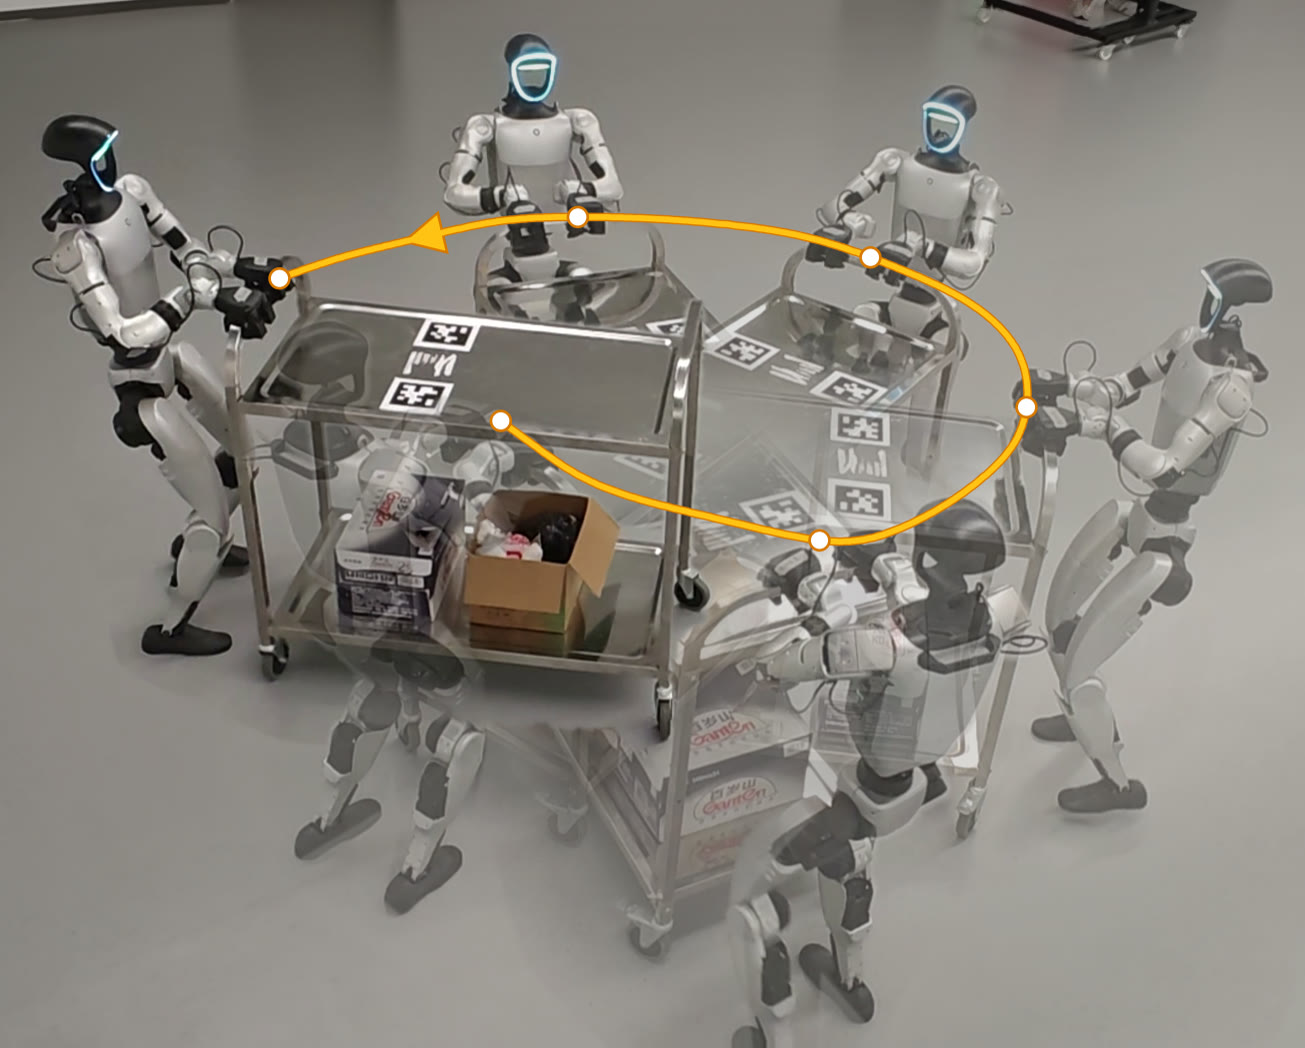
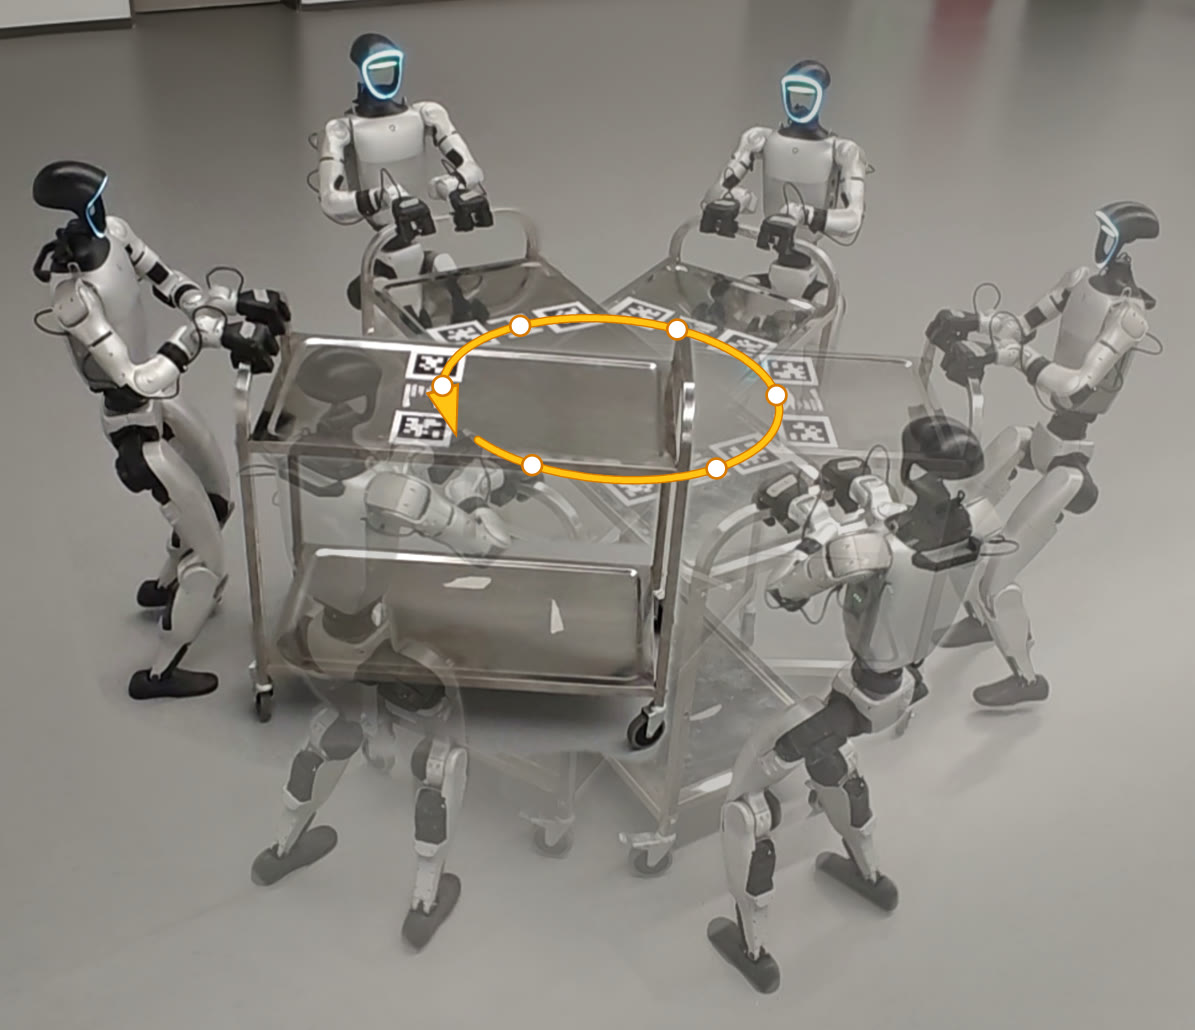
Add framework figure under abstract and fix turning timelapse
Place the paper's Figure 3 below the abstract with an (a)/(b)/(c)
caption, replacing the old Method section, and align the draft abstract
with the figure. Use the 0 kg circle-fit timelapse for the turning tab.

diff --git a/index.html b/index.html
@@ -145,23 +145,42 @@
         <div class="column is-four-fifths">
           <h2 class="title is-3">Abstract</h2>
           <div class="content has-text-justified">
-            <!-- TODO: 这段是根据 docs/paper_method_stage2_teacher_student.md 写的草稿，请换成论文正式摘要 -->
+            <!-- TODO: 这段是按框架图（Figure 3）写的草稿，请换成论文正式摘要 -->
             <p>
               When a humanoid robot pushes a cart, everything it does to the cart passes through its hands.
-              Whether the cart moves, whether the hands slip on the handle, and how well a velocity command is tracked
-              all depend on the interaction force, which in turn depends on grip friction, cart mass, rolling resistance
-              and external disturbances&mdash;none of which can be measured on the real robot.
-              We present ForPC, a hierarchical controller in which a high-level push-cart policy drives a frozen
-              locomotion policy by correcting its velocity commands, offsetting upper-body joint targets and adding
-              bounded leg residuals. We model the hand&ndash;handle contact with load-dependent elasto-plastic friction,
-              derive force-aware rewards from this contact model, and train the policy with a teacher&ndash;student scheme
-              whose latent context is restricted to what can be recovered from deployable history.
+              Whether the cart moves and how well a velocity command is tracked depend on the hand&ndash;cart
+              interaction force, which in turn depends on cart mass, friction and external disturbances&mdash;none
+              of which can be measured on the real robot.
+              We present ForPC, a force-aware whole-body residual controller. A pre-trained locomotion policy is kept
+              frozen, and a learned policy outputs arm actions, velocity commands and leg residuals on top of it.
+              Through teacher&ndash;student training, the student learns to estimate the interaction force and infer
+              the robot&ndash;cart state from its observation history alone, guided by a teacher that sees ground-truth
+              contact forces and privileged state.
               Deployed on a Unitree G1 without force sensors, the policy tracks forward, lateral and turning commands
               with payloads of up to 25&nbsp;kg and completes long-horizon delivery tasks.
             </p>
           </div>
         </div>
       </div>
+    </div>
+
+    <!-- 框架图（论文 Figure 3，来自 fig03_framework.pdf）。点击图片打开原图 -->
+    <div class="container is-max-widescreen framework" id="method">
+      <figure class="paper-figure framework-figure">
+        <a href="static/images/framework.png" target="_blank" title="Open full-size figure">
+          <img src="static/images/framework.png" alt="ForPC framework: locomotion prior pre-training, force estimation and force-aware state inference, and force-aware whole-body residual control">
+        </a>
+        <figcaption>
+          <strong>Framework.</strong>
+          (a) A locomotion prior is pre-trained from bounded initial poses under external wrench disturbances.
+          (b) The student encodes its observation history into state and force latents, decoded into velocity,
+          acceleration and force estimates, and is aligned by KL divergence with a teacher that encodes ground-truth
+          contact forces and privileged state; both feed a shared task policy.
+          (c) The student policy outputs arm actions, velocity commands and leg residuals for the frozen locomotion
+          policy, trained with velocity-tracking, cart-smoothness and internal-force rewards under dynamics
+          randomization and observation noise.
+        </figcaption>
+      </figure>
     </div>
   </section>
 
@@ -370,8 +389,8 @@
         <div class="columns is-vcentered timelapse-pair">
           <div class="column is-5">
             <figure class="paper-figure timelapse">
-              <img src="static/images/timelapse_wz.jpg" alt="High-angle timelapse of turning with a 25 kg payload" loading="lazy">
-              <figcaption>Turning with a 25 kg payload; the arrow traces the handle.</figcaption>
+              <img src="static/images/timelapse_wz.jpg" alt="High-angle timelapse of turning with an empty cart" loading="lazy">
+              <figcaption>Turning with an empty cart; the orange loop traces the cart path.</figcaption>
             </figure>
           </div>
           <div class="column is-7">
@@ -486,49 +505,6 @@
             <source src="static/videos/delivery_short.mp4" type="video/mp4">
           </video>
           <p class="experiment-caption">Short route <span class="speed-tag">3&times; speed</span></p>
-        </div>
-      </div>
-    </div>
-  </section>
-
-  <!-- ========== 方法 ========== -->
-  <!-- TODO: 系统框架图（论文图 3-1）画好后，可以命名为 method_overview.jpg 替换左边的渲染图 -->
-  <section class="section hero is-light" id="method">
-    <div class="container is-max-desktop">
-      <h2 class="title is-3 has-text-centered">Method</h2>
-      <div class="columns is-vcentered">
-        <div class="column is-4">
-          <figure class="paper-figure render-figure">
-            <img src="static/images/render_side34.jpg" alt="Unitree G1 holding the cart handle in simulation" loading="lazy">
-          </figure>
-        </div>
-        <div class="column is-8">
-          <div class="content method-text">
-            <p>
-              ForPC is a two-level controller. A frozen HOMIE locomotion policy walks the robot, and a high-level
-              push-cart policy running at 50&nbsp;Hz corrects its velocity commands, offsets the 15 upper-body joint
-              targets, and adds bounded residuals to the 12 leg joints.
-            </p>
-            <ul>
-              <li>
-                <strong>Hand&ndash;cart interaction model.</strong>
-                Each hand holds the handle through a four-joint chain with load-dependent elasto-plastic friction along
-                the tube, so grip slip and interaction forces are physically meaningful in simulation. Cart mass,
-                rolling resistance, caster friction, yaw damping and impacts are randomized.
-              </li>
-              <li>
-                <strong>Force-aware action and reward.</strong>
-                With both hands on the handle, upper-body joint offsets act as impedance-style regulators of the
-                interaction force, and the reward terms are derived from the contact mechanics.
-              </li>
-              <li>
-                <strong>Teacher&ndash;student training.</strong>
-                A teacher reads privileged mechanics through a 20-D latent bottleneck, regularized so that it keeps only
-                what a student can recover from deployable history. The deployed student needs no force sensors and
-                no privileged information.
-              </li>
-            </ul>
-          </div>
         </div>
       </div>
     </div>

diff --git a/static/css/index.css b/static/css/index.css
@@ -1008,3 +1008,34 @@ a:focus {
     gap: 0.6rem 1.25rem;
   }
 }
+
+/* 摘要下方的框架图 */
+.framework {
+  margin-top: 3rem;
+  padding: 0 1.5rem;
+}
+
+.framework-figure {
+  margin: 0;
+}
+
+.framework-figure img {
+  width: 100%;
+  display: block;
+  padding: 1rem;
+  background: #fff;
+  border-radius: var(--border-radius-lg);
+  box-shadow: var(--shadow-md);
+  cursor: zoom-in;
+}
+
+.framework-figure figcaption {
+  max-width: 900px;
+  margin: 1rem auto 0;
+  text-align: left;
+  line-height: 1.65;
+}
+
+.framework-figure figcaption strong {
+  color: var(--text-primary);
+}

diff --git a/README.md b/README.md
@@ -16,7 +16,7 @@
 | Velocity Command Tracking | vx / vy / ωz 三个标签页；按钮切换负载和方向；每个工况两个视角并排 |
 | Trajectory Following | 三条轨迹，正面 + 侧面 |
 | Long-Horizon Delivery | 两条长路径、一条短路径 |
-| Method | 方法简介 + 仿真渲染图 |
+| 摘要 + 框架图 | 论文 Figure 3（`static/images/framework.png`，点击可看原图） |
 
 ## 视频文件
 
@@ -51,9 +51,8 @@ ffmpeg -i output.mp4 -frames:v 1 -q:v 4 poster.jpg
 |---|---|
 | `timelapse_vx.jpg` | `real_timelapse/straight_vx_0p3_path.png` |
 | `timelapse_vy.jpg` | `real_timelapse/lateral_vy_12p5kg_4poses_path.png` |
-| `timelapse_wz.jpg` | `real_timelapse/turning_wz_25kg_path_handle.png` |
+| `timelapse_wz.jpg` | `real_timelapse/turning_wz_0kg_path_circlefit.png` |
 | `timelapse_wz_grid.jpg` | `real_timelapse/turning_wz_load_grid.png` |
-| `render_side34.jpg` | `side34.png` |
 | `social_preview.jpg` | 首屏视频截图，链接分享卡片用（1200×630） |
 
 ## 本地预览
